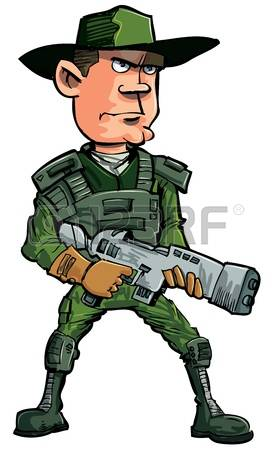
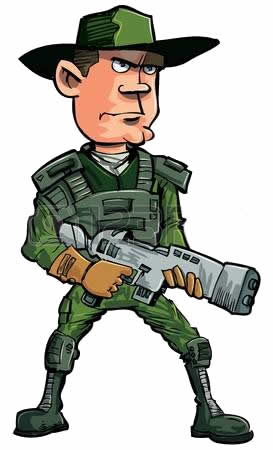
Se arreglan  fondos
Se quitan los fondos

Changed region(s): [[0.674, 0.4356, 0.8498, 0.56]]

diff --git a/index.html b/index.html
@@ -1,44 +1,102 @@
 <!DOCTYPE html>
-<html lang="es">
-<style type="text/css"></style>
-<head>
-	<title>Colombia Vive</title>
-	<meta charset="utf-8">
-	<meta name="viewport" content="width=device-width,user-scalable=no, initial-scale=1, maximun scale=1, minimum-scale=1">
-	<link rel="stylesheet" type="text/css" href="css/fontello.css">
-	<link rel="stylesheet" type="text/css" href="css/stilo.css">
-	<script src="https://code.jquery.com/jquery-latest.js"> </script>
-	<script src="https://ajax.googleapis.com/ajax/libs/jquery/1.11.1/jquery.min.js"> </script>
-    <script src="menu.js"></script>
+<title>Colombia Vive</title>
+<meta charset="utf-8"/>
+<link rel="stylesheet" href="styles/style.css" type="text/css"/>
+<link rel="stylesheet" href="styles/prettyphoto.css" type="text/css"/>
+<link rel="stylesheet" href="styles/totop.css" type="text/css"/>
+
 </head>
 <body>
-		<header>
-				<div class="barramenu"><a href="" class="btn-menu"><span class="icon-menu"></span>Menu</a></div>
-				<nav>
-                    <ul>
-					   <li><a href=""><span class="icon-home"></span>Inicio</a></li>
-					   <li><a href="Registro.html"><span class="icon-mail-alt"></span>Registro</a></li>
-						<li><a href=""><span class="icon-mail-alt"></span>Contacto</a></li>
-                    </ul>
-			</nav>
-		</header>
-		
-		<main>
-            <section>
-                <div class="contenido"> </div>
-                <div class="login">
+<div class="main-container">
+    <header>
+        <h1><a href="index.html">Colombia Vive</a></h1>
+
+        <p id="tagline"><strong>Aprendiendo Historia</strong></p>
+    </header>
+</div>
+
+<div class="main-container">
+    <div id="nav-container">
+        <nav>
+            <ul class="nav">
+                <li class="active"><a href="index.html">Inicio</a></li>
+                <li><a href="registro.html">Registro</a></li>
+                <li><a href="galeria.html">Galeria</a></li>
+                <li class="last"><a href="contacto.html">Contacto</a></li>
+            </ul>
+        </nav>
+        <div class="clear"></div>
+    </div>
+</div>
+<div class="main-container">
+    <div class="container1">
+        <div id="mySlides">
+            <div id="slide1">
+                <img src="images/slider1.jpg" alt="Slide 1 jFlow Plus"/> 
+            </div>
+            <div id="slide2">
+                <img src="images/slider2.jpg" alt="Slide 2 jFlow Plus"/>
+            </div>
+            <div id="slide3">
+                <img src="images/slider3.jpg" alt="Slide 3 jFlow Plus"/>
+            </div>
+        </div>
+
+        <div id="myController">
+            <span class="jFlowControl"></span>
+            <span class="jFlowControl"></span>
+            <span class="jFlowControl"></span>
+        </div>
+
+        <section class="jFlowPrev">
+            <div></div>
+        </section>
+        <section class="jFlowNext">
+            <div></div>
+        </section>
+        <br/>
+        <br/>
+
+        <article class="box" id="home_featured21">
+            <div class="block"><h2>Historia</h2>
+
+                <p>La masacre de El Salado es una de las más atroces del conflicto contemporáneo de Colombia. Fue perpetrada entre el 16 y el 21 de febrero del 2000 por 450 paramilitares, que apoyados por helicópteros, dieron muerte a 60 personas en estado de total indefensión.<br/>
+                    <a href="http://www.centrodememoriahistorica.gov.co/2014-01-29-15-08-26/el-salado-esa-guerra-no-era-nuestra" class="read_more">Conocer más</a>
+                </p>
+            </div>
+            <div class="block"><h2>Recordemos...</h2>
+                <ul id="list">
+                                         <iframe width="300" height="315" 
+src="https://www.youtube.com/embed/85MppyLJHz0?autoplay=0"  
+allowfullscreen></iframe>
+                    
+                </ul>
+                <br/>     
+            </div> 
+            <div class="login">
 					<form action="validar.php" method="post"> 
 						<div id="fcb"><a href="https://www.facebook.com"></a></div>
                     	<h2>Ingresar</h2>
-						<span class="icon-user"></span><input type="text" placeholder="&#128272;usuario" name="usuario"><br>
-						<span class="icon-key"></span><input name="clave" type="password" placeholder="&#9919;contrseña"required>
+                        <div id="fcb"><a href="https://www.facebook.com"></a></div>
+						<input type="text" placeholder="&#128272;usuario" name="usuario"><br>
+						<input name="clave" type="password" placeholder="&#9919;contrseña"required>
 						<input type="submit" value="Ingresar">
                         <label><a href="contrasena.php">Olvide contraseña</a></label>
 					</form>
 				</div>
-            </section>
-			
-		</main>
-    
+            <div class="clear"></div>
+            
+        </article>
+
+    </div>
+<br/>
+<br/>
+<script src="scripts/jquery.js" type="text/javascript"></script>
+<script src="scripts/prettyphoto.js" type="text/javascript"></script>
+<script src="scripts/jflow.js" type="text/javascript"></script>
+<script src="scripts/easing.js" type="text/javascript"></script>
+<script src="scripts/totop.js" type="text/javascript"></script>
+<script src="scripts/superfish.js" type="text/javascript"></script>
+<script src="scripts/functions.js" type="text/javascript"></script>
 </body>
 </html>
